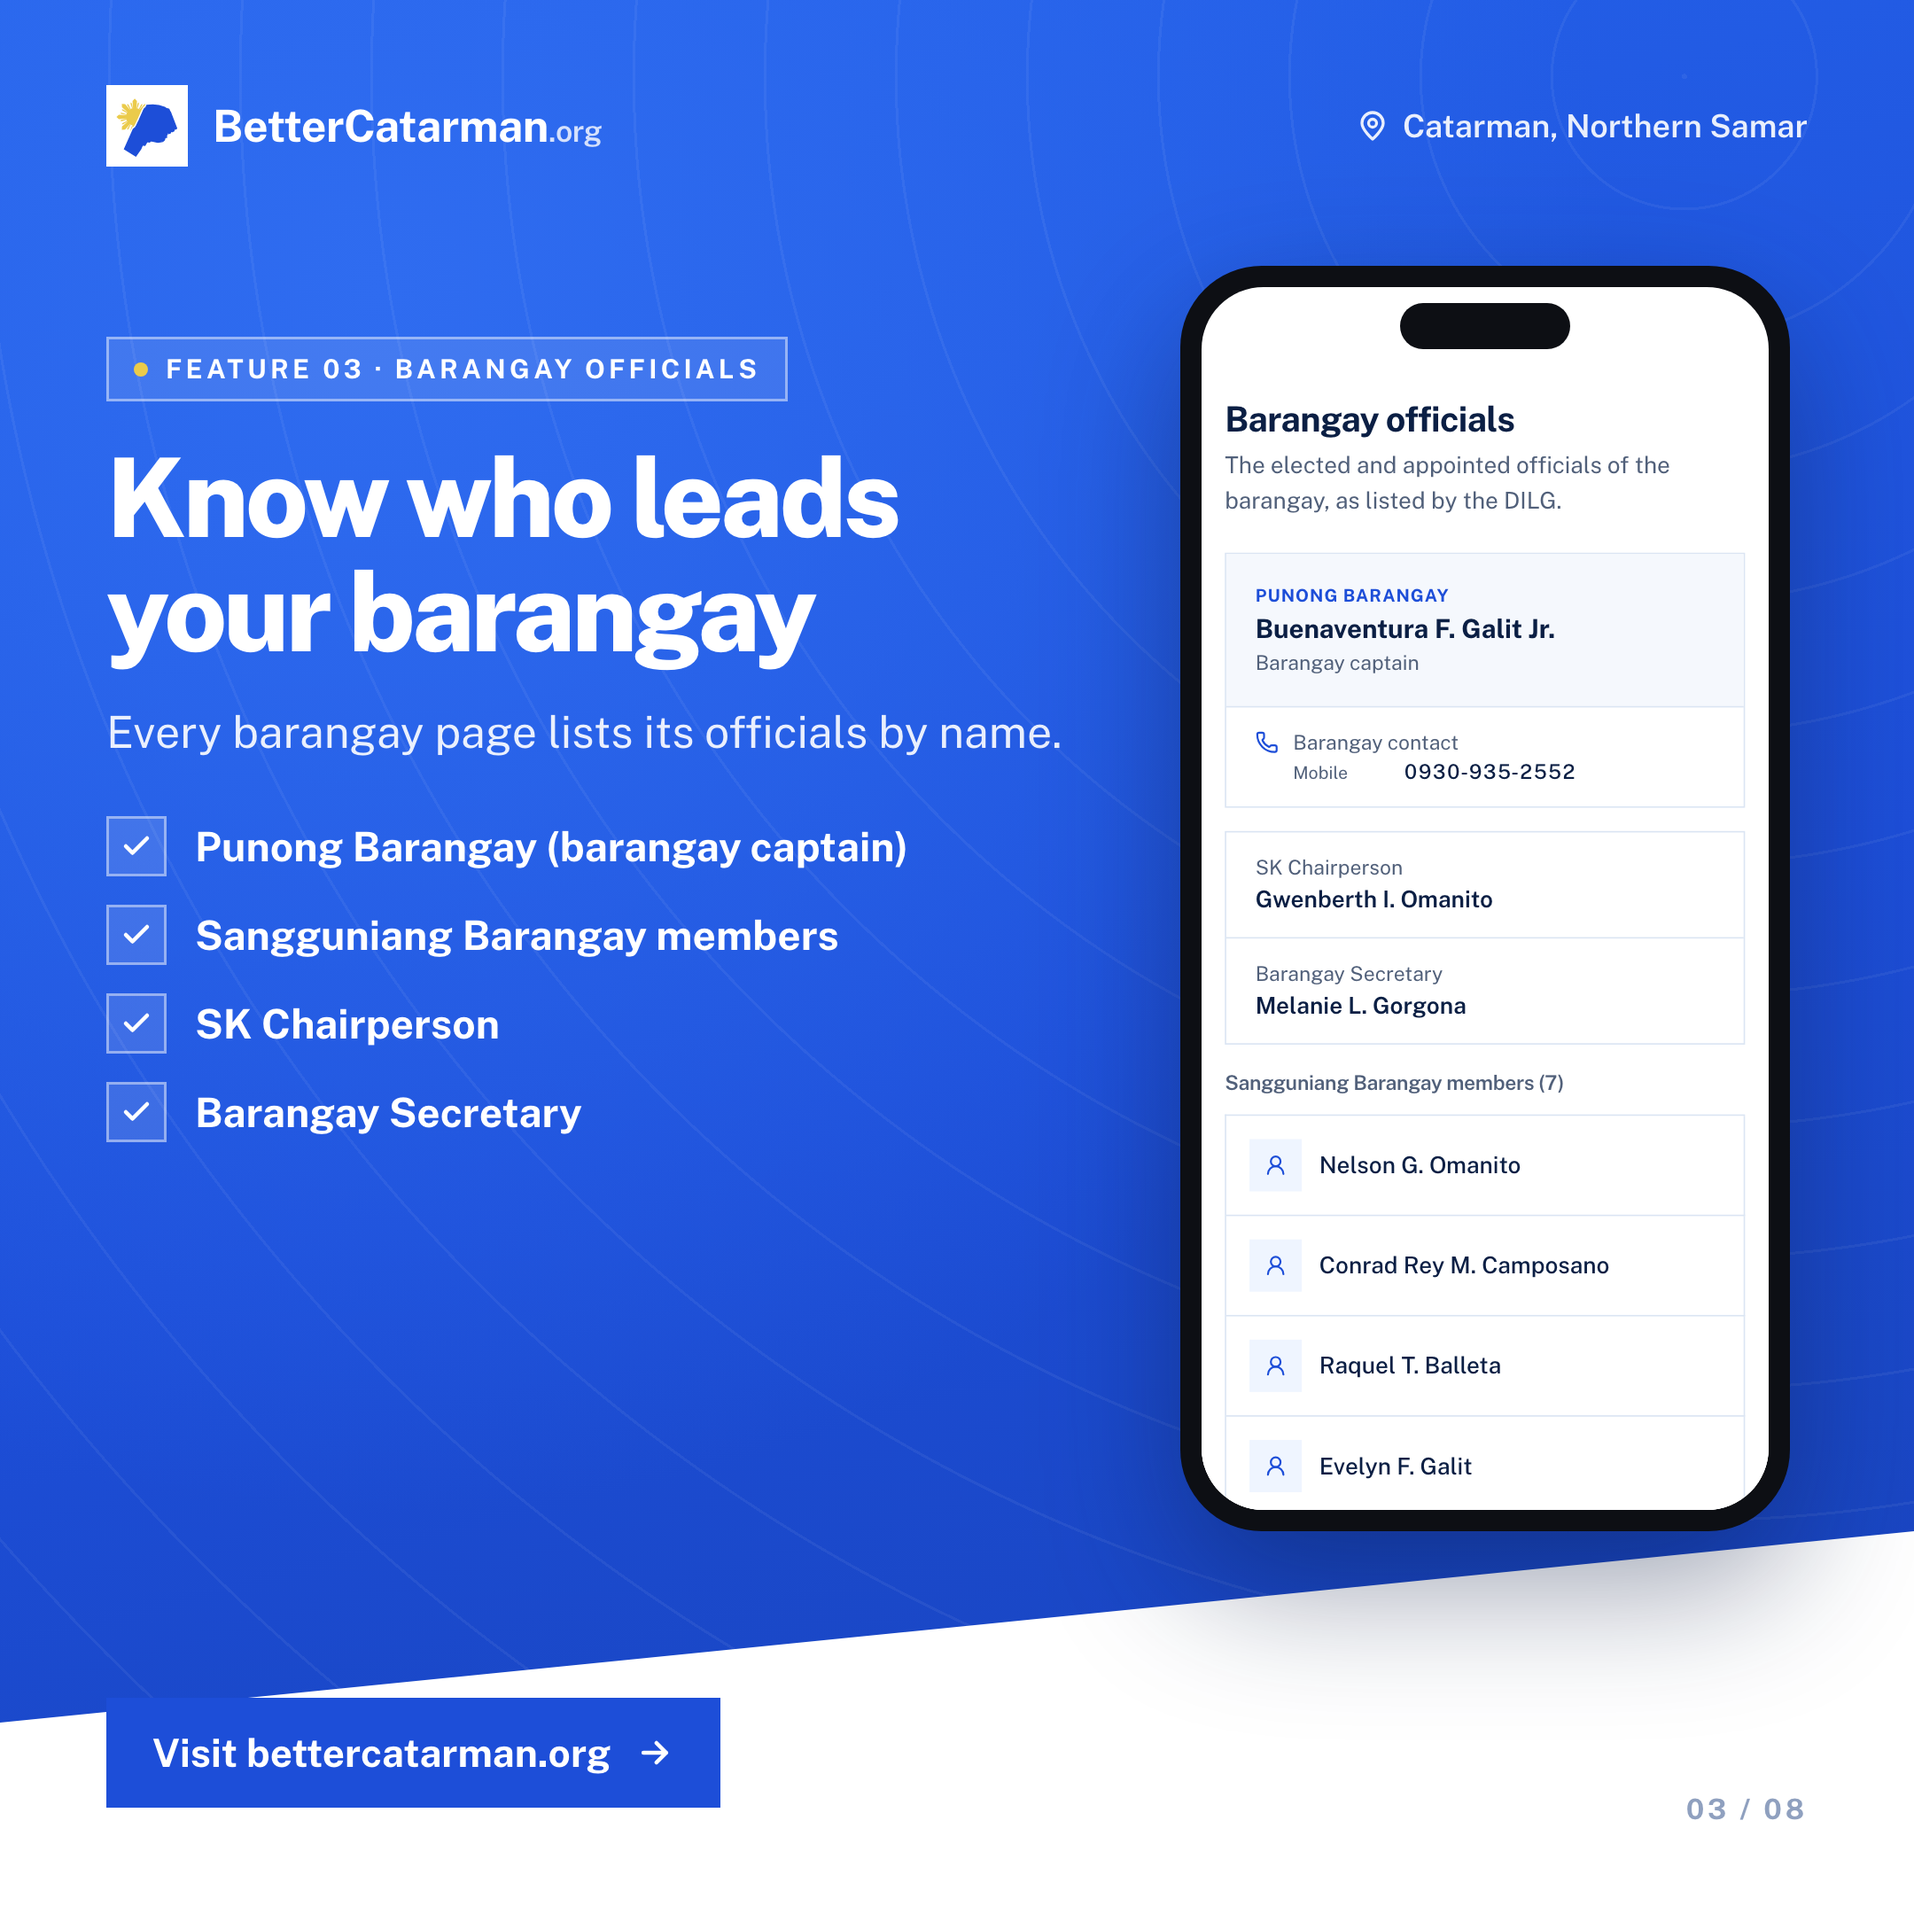
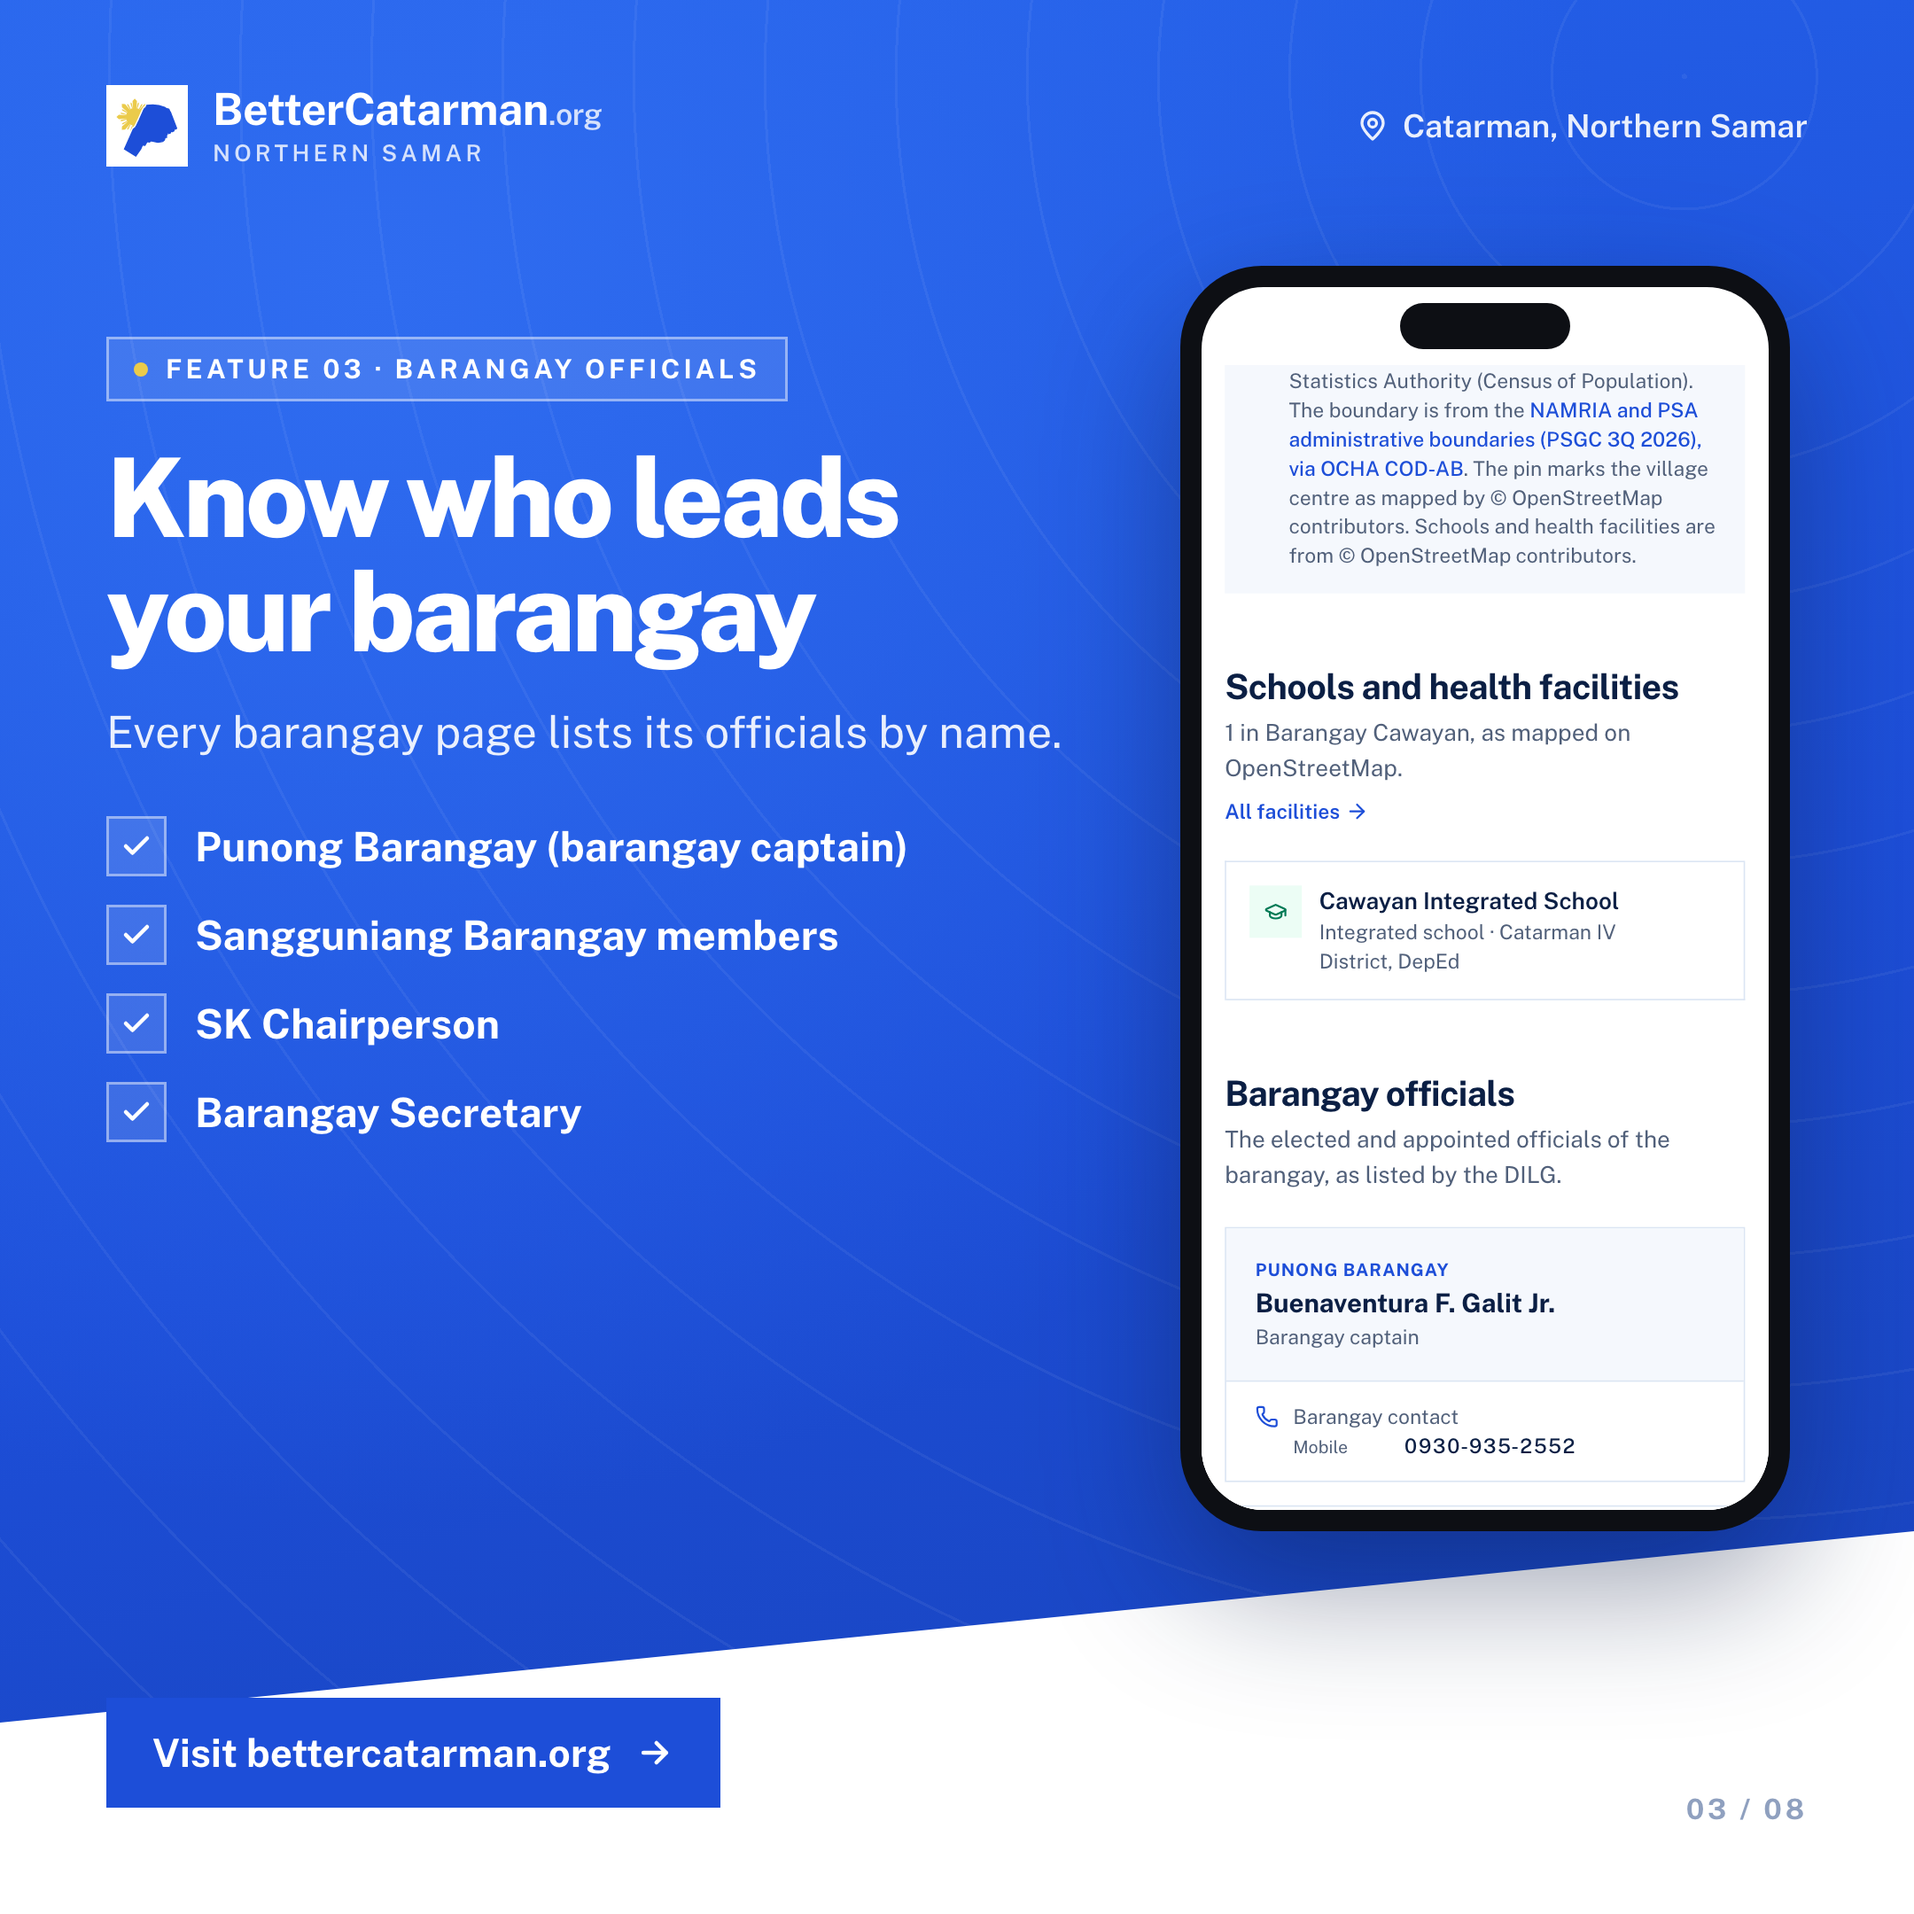
Show Northern Samar under the BetterCatarman.org name

diff --git a/promo/slides.html b/promo/slides.html
@@ -40,7 +40,10 @@ body:not(.single) .slide { margin: 24px auto; }
 .top { position: absolute; left: 60px; right: 60px; top: 48px; display: flex; align-items: center; justify-content: space-between; z-index: 5; }
 .brand { display: flex; align-items: center; gap: 14px; font-size: 25px; font-weight: 700; letter-spacing: -.01em; }
 .brand img { width: 46px; height: 46px; background: #fff; padding: 5px; }
-.brand small { font-size: 17px; font-weight: 600; opacity: .8; }
+.brand span { display: flex; flex-direction: column; line-height: 1; }
+.brand b { font-weight: 700; }
+.brand i { font-style: normal; font-size: 17px; font-weight: 600; opacity: .8; }
+.brand small { margin-top: 6px; font-size: 13px; font-weight: 600; letter-spacing: .16em; text-transform: uppercase; opacity: .8; }
 .place { display: flex; align-items: center; gap: 8px; font-size: 18px; font-weight: 600; opacity: .9; }
 .place svg { width: 18px; height: 18px; }
 
@@ -161,7 +164,7 @@ const arrow = '<svg viewBox="0 0 24 24" fill="none" stroke="currentColor" stroke
 const pin = '<svg viewBox="0 0 24 24" fill="none" stroke="currentColor" stroke-width="2.2" stroke-linecap="round" stroke-linejoin="round"><path d="M20 10c0 5-8 12-8 12s-8-7-8-12a8 8 0 0 1 16 0Z"/><circle cx="12" cy="10" r="3"/></svg>'
 
 const header = `<div class="top">
-  <div class="brand"><img src="../public/logo-mark.svg" alt=""><span>BetterCatarman<small>.org</small></span></div>
+  <div class="brand"><img src="../public/logo-mark.svg" alt=""><span><b>BetterCatarman<i>.org</i></b><small>Northern Samar</small></span></div>
   <div class="place">${pin} Catarman, Northern Samar</div>
 </div>`
 

diff --git a/app/pages/index.vue b/app/pages/index.vue
@@ -4,7 +4,7 @@ import { financeYears } from '~/data/finances'
 import { notices } from '~/data/notices'
 import { categories, glance, history, officials, popularSearches, popularSlugs, site } from '~/data/site'
 
-useHead({ title: 'Welcome to BetterCatarman.org', titleTemplate: '%s · Catarman, Northern Samar' })
+useHead({ title: 'BetterCatarman.org Northern Samar · Government services in Catarman', titleTemplate: '%s' })
 useSeoMeta({
   description: 'Requirements, offices, barangays, and public records for Catarman, Northern Samar, gathered in one simple place.',
 })
@@ -32,7 +32,7 @@ const popular = popularSlugs.map(s => categories.find(c => c.slug === s)!)
         <MapPin class="size-4" aria-hidden="true" /> {{ site.municipality }}, {{ site.province }}
       </p>
       <h1 class="max-w-3xl text-4xl font-bold leading-[1.1] sm:text-5xl lg:text-6xl">
-        {{ t('Welcome to') }} <span class="text-primary">BetterCatarman.org</span>
+        {{ t('Welcome to') }} <span class="text-primary">BetterCatarman<span class="sm:text-3xl text-2xl">.org</span></span>
       </h1>
       <p class="mt-5 max-w-2xl text-lg text-muted-foreground">
         {{ t('Requirements, offices, barangays, and public records for every Catarmananon, gathered in one simple place.') }}

diff --git a/app/pages/qr.vue b/app/pages/qr.vue
@@ -52,7 +52,10 @@ onMounted(async () => {
       <article class="mx-auto flex max-w-[680px] flex-col items-center border-4 border-primary p-10 text-center print:max-w-none print:border-[6px]">
         <div class="flex items-center gap-3">
           <LogoMark class="size-14" />
-          <p class="text-2xl font-bold">Better<span class="text-primary">Catarman</span><span class="text-base font-semibold text-muted-foreground">.org</span></p>
+          <p class="flex flex-col items-start leading-none">
+            <span class="text-2xl font-bold">Better<span class="text-primary">Catarman</span><span class="text-base font-semibold text-muted-foreground">.org</span></span>
+            <span class="mt-1 text-xs font-semibold uppercase tracking-[0.16em] text-muted-foreground">Northern Samar</span>
+          </p>
         </div>
         <h1 class="mt-8 text-4xl font-bold leading-tight sm:text-5xl">{{ target.title }}</h1>
         <ul class="mt-5 space-y-1 text-lg text-muted-foreground">

diff --git a/app/components/AppLogo.vue b/app/components/AppLogo.vue
@@ -1,9 +1,9 @@
 <template>
-  <NuxtLink to="/" class="flex items-center gap-2 rounded-md" aria-label="BetterCatarman.org home">
+  <NuxtLink to="/" class="flex items-center gap-2.5" aria-label="BetterCatarman.org Northern Samar, home">
     <LogoMark class="size-11 shrink-0" />
-    <span class="flex flex-col text-[17px] font-bold leading-[1.05] tracking-tight">
-      <span>Better</span>
-      <span>Catarman<span class="text-xs font-semibold text-muted-foreground">.org</span></span>
+    <span class="flex flex-col leading-none">
+      <span class="text-[19px] font-bold tracking-tight">Better<span class="text-primary">Catarman</span><span class="text-[13px] font-semibold text-muted-foreground">.org</span></span>
+      <span class="mt-1 text-[10.5px] font-semibold uppercase tracking-[0.16em] text-muted-foreground">Northern Samar</span>
     </span>
   </NuxtLink>
 </template>

diff --git a/app/components/AppFooter.vue b/app/components/AppFooter.vue
@@ -55,7 +55,7 @@ const route = useRoute()
     </div>
     <div class="border-t">
       <div class="container-page py-5 text-xs text-muted-foreground">
-        © {{ new Date().getFullYear() }} BetterCatarman. {{ t('Information is provided for public reference; always confirm with the office concerned.') }}
+        © {{ new Date().getFullYear() }} BetterCatarman.org Northern Samar. {{ t('Information is provided for public reference; always confirm with the office concerned.') }}
         <NuxtLink to="/about" class="font-semibold text-primary hover:underline">{{ t('See where our information comes from') }}</NuxtLink>
         <span class="mt-2 flex flex-wrap gap-x-4 gap-y-1">
           <NuxtLink to="/privacy" class="hover:text-primary hover:underline">{{ t('Privacy notice') }}</NuxtLink>

diff --git a/app/pages/barangays/[slug].vue b/app/pages/barangays/[slug].vue
@@ -54,7 +54,7 @@ const mapLink = `https://www.openstreetmap.org/?mlat=${loc.lat}&mlon=${loc.lng}#
     :crumbs="[{ label: 'Barangays', to: '/barangays' }, { label: b.name }]"
   >
     <div class="mt-5">
-      <ShareBar :title="`Barangay ${b.name} · BetterCatarman.org`" :path="`/barangays/${b.slug}`" />
+      <ShareBar :title="`Barangay ${b.name} · BetterCatarman.org Northern Samar`" :path="`/barangays/${b.slug}`" />
     </div>
   </PageHeader>
 

diff --git a/app/pages/services/[slug]/[service].vue b/app/pages/services/[slug]/[service].vue
@@ -41,7 +41,7 @@ const key = (g: number, i: number) => `${g}-${i}`
       </span>
     </p>
     <div class="mt-5">
-      <ShareBar :title="`${service!.name} · BetterCatarman.org`" :path="`/services/${category!.slug}/${service!.slug}`" />
+      <ShareBar :title="`${service!.name} · BetterCatarman.org Northern Samar`" :path="`/services/${category!.slug}/${service!.slug}`" />
     </div>
   </PageHeader>
 

diff --git a/nuxt.config.ts b/nuxt.config.ts
@@ -31,7 +31,7 @@ export default defineNuxtConfig({
   app: {
     head: {
       htmlAttrs: { lang: 'en' },
-      titleTemplate: '%s · BetterCatarman',
+      titleTemplate: '%s · BetterCatarman.org Northern Samar',
       meta: [
         { name: 'viewport', content: 'width=device-width, initial-scale=1' },
         { name: 'theme-color', content: '#1d4ed8' },

diff --git a/scripts/build-logo.py b/scripts/build-logo.py
@@ -48,11 +48,11 @@ style = ("<style>@font-face{font-family:'Public Sans Logo';font-weight:100 900;"
          "text{font-family:'Public Sans Logo','Public Sans','Helvetica Neue',Arial,sans-serif;font-weight:700}</style>")
 
 def lockup(ink):
-    return (f'<svg xmlns="http://www.w3.org/2000/svg" viewBox="0 0 372 160" role="img" aria-label="BetterCatarman.org">{style}'
+    return (f'<svg xmlns="http://www.w3.org/2000/svg" viewBox="0 0 400 160" role="img" aria-label="BetterCatarman.org Northern Samar">{style}'
             f'<g transform="translate(0 4)">{MARK}</g>'
-            f'<g fill="{ink}"><text x="166" y="76" font-size="42" letter-spacing="-1">Better</text>'
-            f'<text x="166" y="118" font-size="42" letter-spacing="-1">Catarman</text>'
-            f'<text x="356" y="142" font-size="18" font-weight="600" text-anchor="end">.org</text></g></svg>')
+            f'<g fill="{ink}"><text x="166" y="72" font-size="42" letter-spacing="-1">Better</text>'
+            f'<text x="166" y="112" font-size="42" letter-spacing="-1">Catarman<tspan font-size="20" font-weight="600" letter-spacing="0">.org</tspan></text>'
+            f'<text x="168" y="140" font-size="15" font-weight="600" letter-spacing="2.6">NORTHERN SAMAR</text></g></svg>')
 
 (ROOT / "public/logo.svg").write_text(lockup(INK))
 (ROOT / "public/logo-mark.svg").write_text(f'<svg xmlns="http://www.w3.org/2000/svg" viewBox="0 0 150 150" role="img" aria-label="BetterCatarman">{MARK}</svg>')
